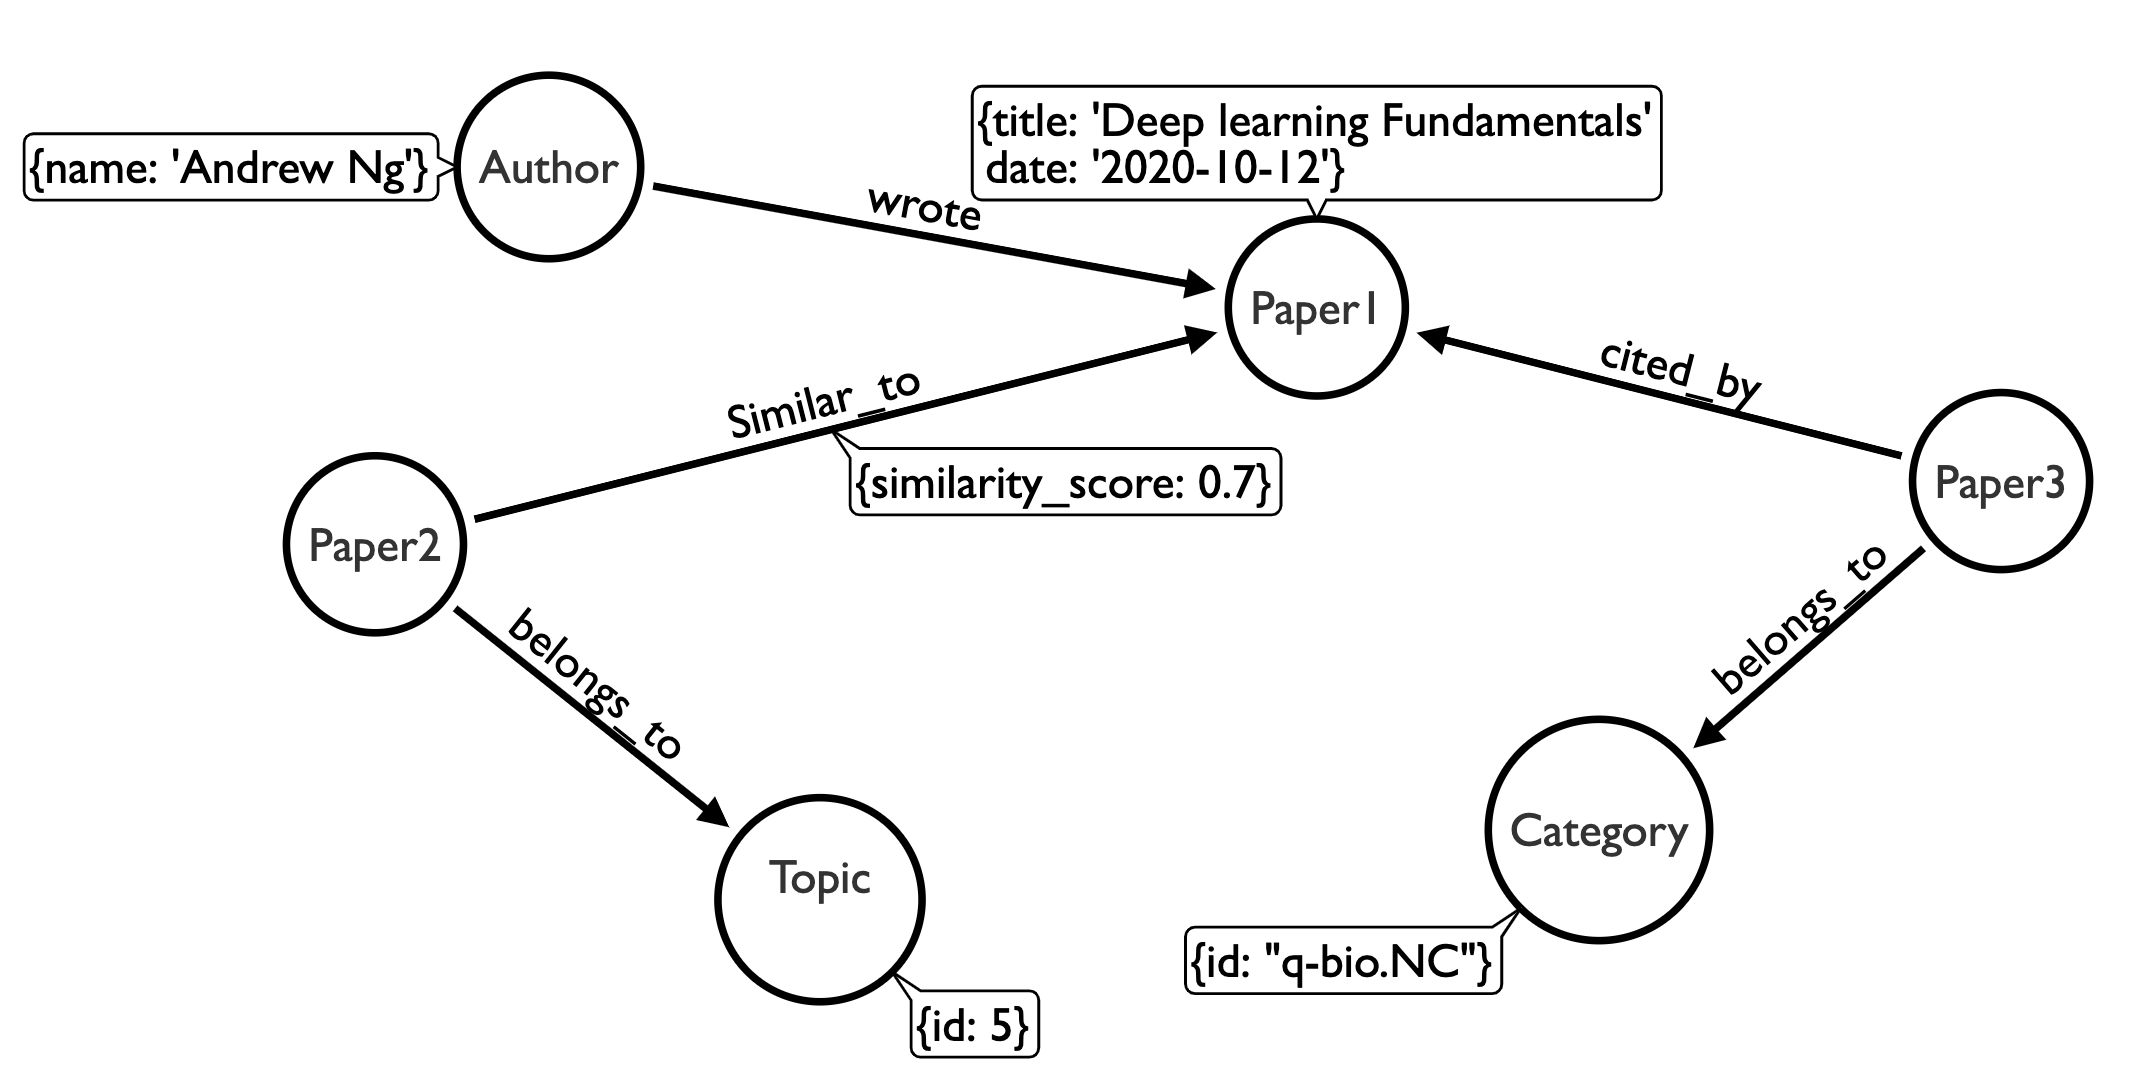
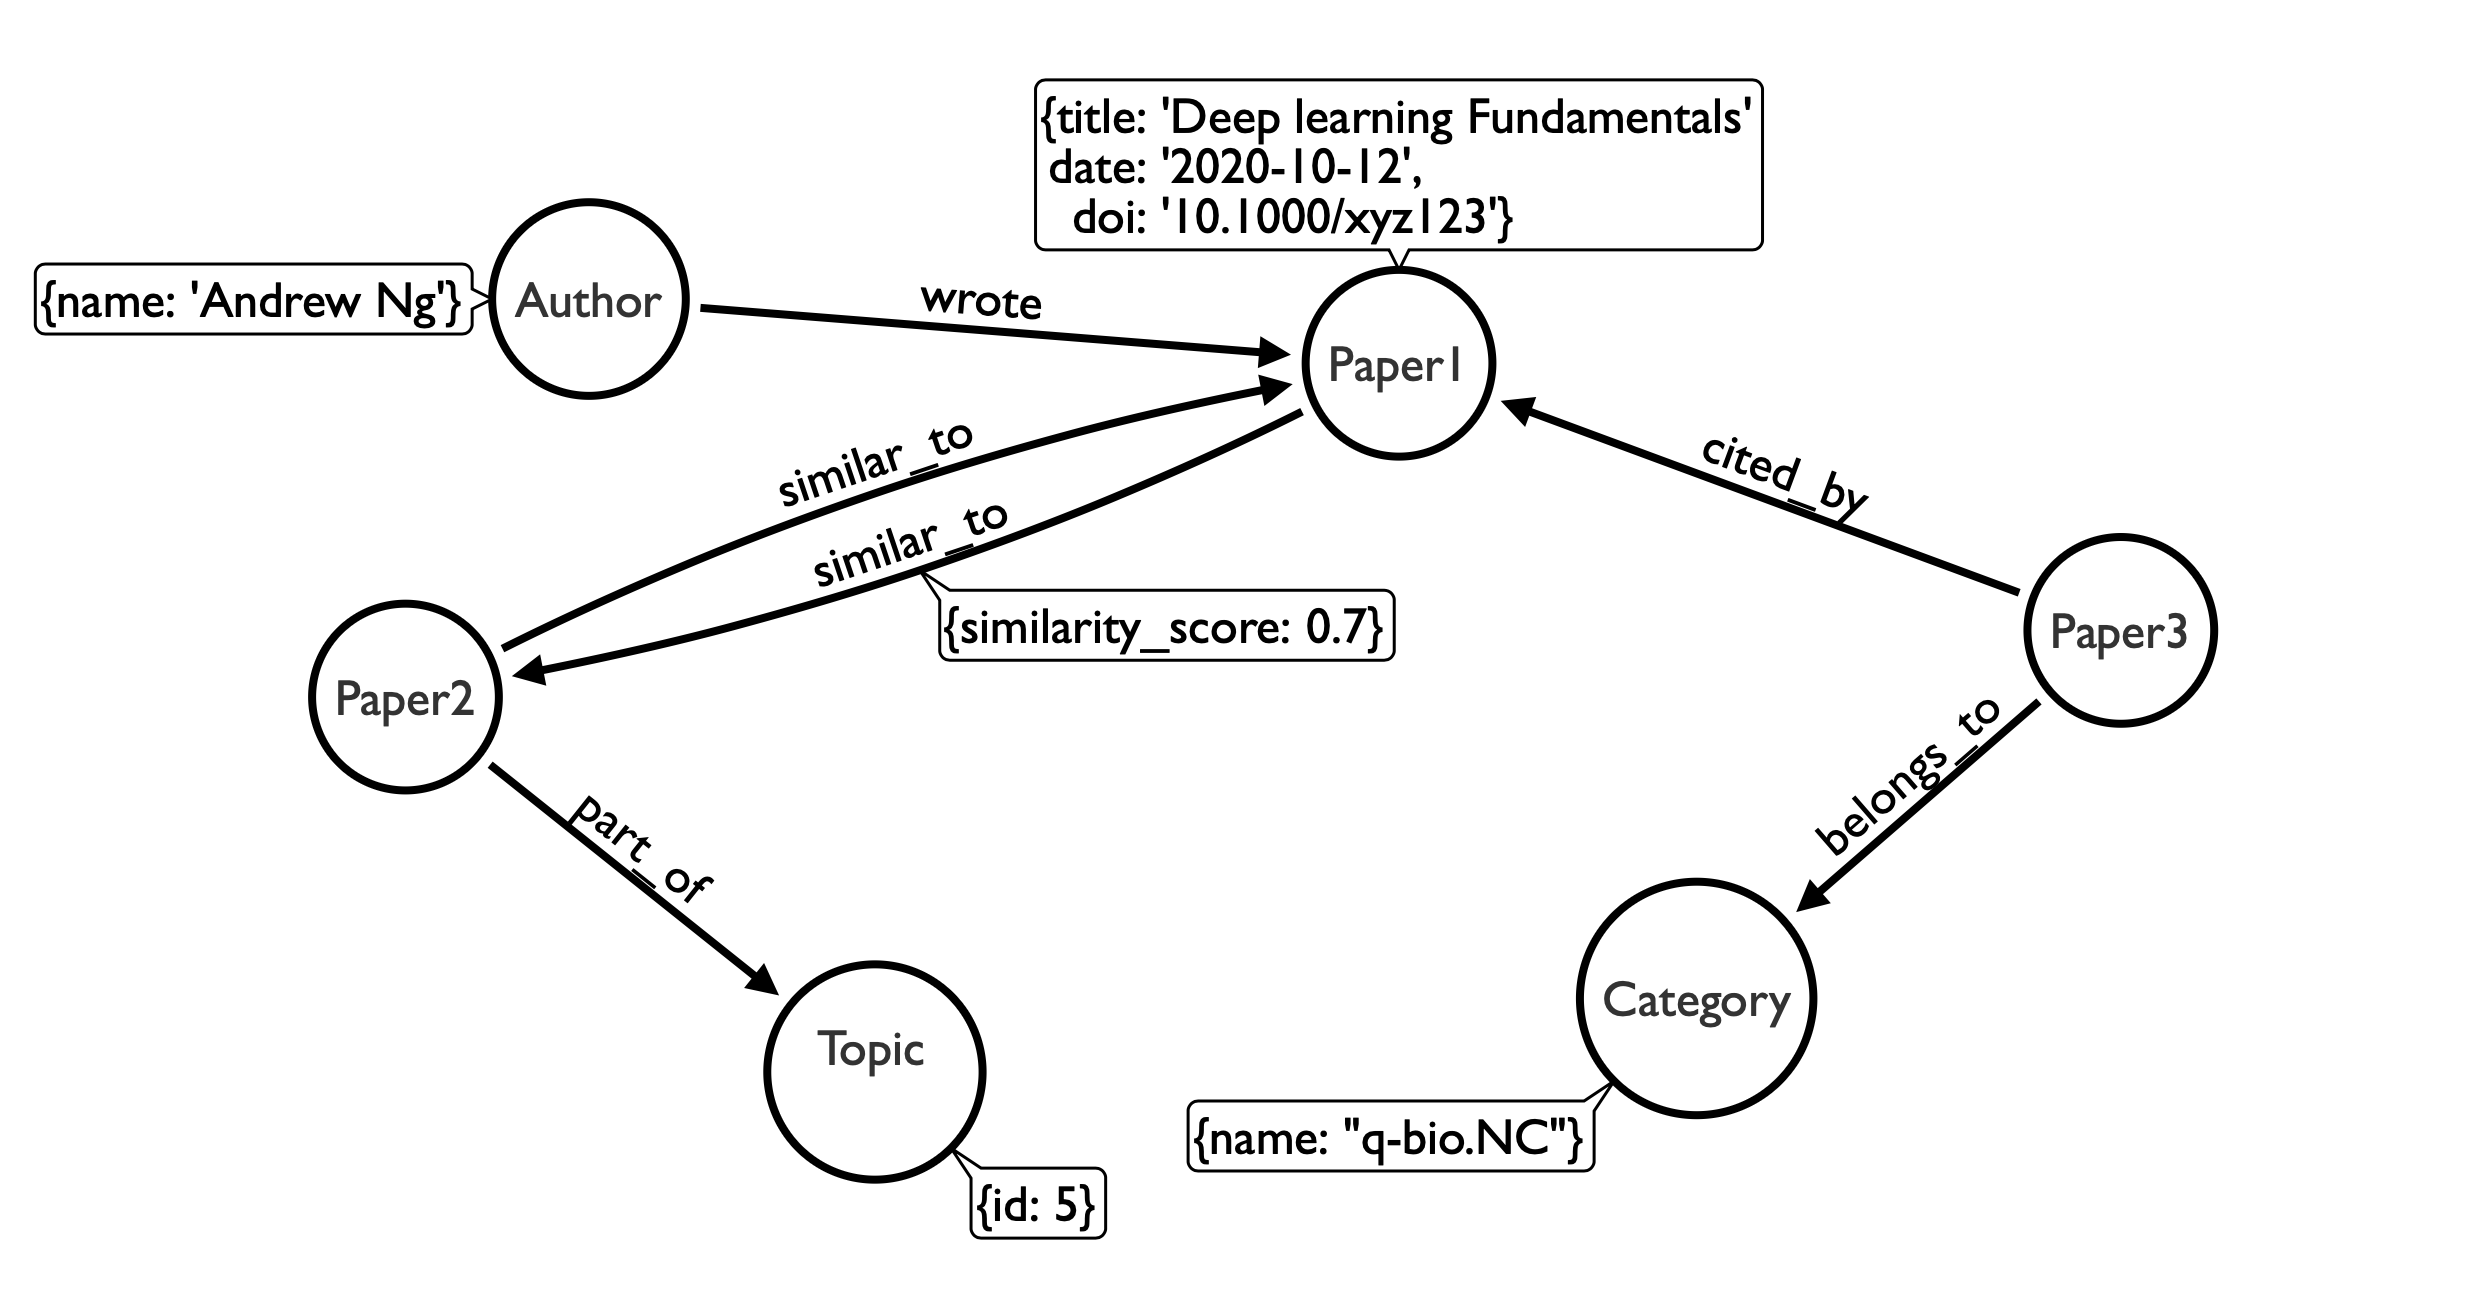
updates

diff --git a/_posts/2020-01-01-ArXiv.md b/_posts/2020-01-01-ArXiv.md
@@ -521,3 +521,20 @@ The schema that would resulf from the above json format is as follows:
     </center>
 </div>
 
+
+Here is the script to create the data base:
+
+```Python
+CALL apoc.load.json("https://raw.githubusercontent.com/udipbohara/arXiv-recommendation/master/test.json") YIELD value
+MERGE (paper1:Paper{id:value.id})
+ON CREATE SET paper1.title = value.title,
+              paper1.date = value.date
+
+MERGE(topic:Topic{name:value.Dominant_Topic}) MERGE (paper1)-[:PART_OF]->(topic)
+MERGE(submitted_by:Submitter{name:value.submitter}) MERGE (paper1)-[:SUBMITTED_BY]-(submitted_by)  
+
+FOREACH (authorName IN value.authors | MERGE (author:Author{name:authorName}) MERGE (author)-[:WROTE]->(paper1))
+FOREACH (categoryName IN value.category | MERGE (category:Category{name:categoryName}) MERGE (paper1)-[:BELONGS_TO]->(category))
+FOREACH (similarPaper IN value.similar_to | MERGE (paper2:Paper{id:similarPaper}) MERGE (paper1)-[:SIMILAR_TO]-(paper2))
+FOREACH (citedPaper IN value.cited_by | MERGE (paper2:Paper{id:citedPaper}) MERGE (paper1)-[:CITED_BY]->(paper2))
+```
